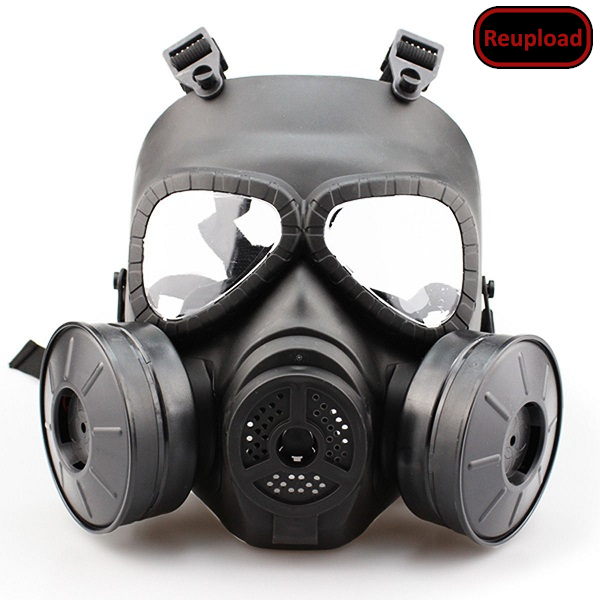
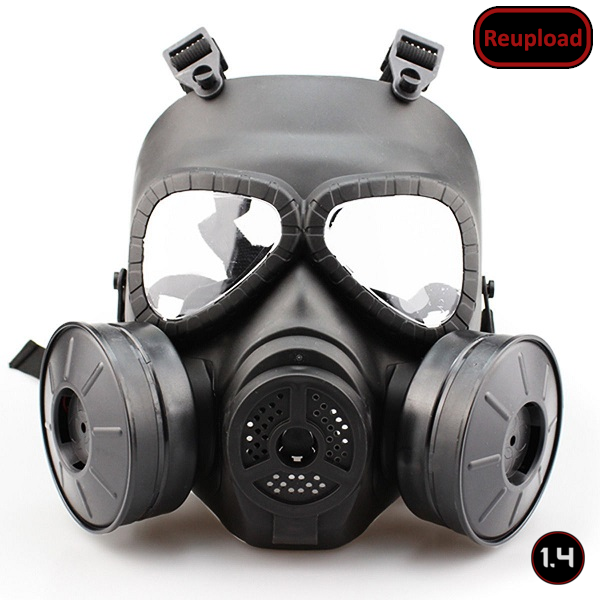
Added ToxicEnvironmentResistance if Biotech is active

Changed region(s): [[0.87, 0.87, 0.99, 0.99]]

diff --git a/README.md b/README.md
@@ -34,11 +34,13 @@ This Mod adds protective apparel to lessen the effects of toxic fallout.
 
 -  See if the the error persists if you just have this mod and its requirements active.
 -  If not, try adding your other mods until it happens again.
--  Post your error-log using https://steamcommunity.com/workshop/filedetails/?id=818773962]HugsLib and command Ctrl+F12
+-  Post your error-log using https://steamcommunity.com/workshop/filedetails/?id=818773962]HugsLib or the standalone https://steamcommunity.com/sharedfiles/filedetails/?id=2873415404]Uploader and command Ctrl+F12
 -  For best support, please use the Discord-channel for error-reporting.
 -  Do not report errors by making a discussion-thread, I get no notification of that.
 -  If you have the solution for a problem, please post it to the GitHub repository.
+-  Use https://github.com/RimSort/RimSort/releases/latest]RimSort to sort your mods
 
 
 
+https://steamcommunity.com/sharedfiles/filedetails/changelog/2188981385]![Image](https://img.shields.io/github/v/release/emipa606/KKGasmask?label=latest%20version&style=plastic&color=9f1111&labelColor=black)
 
